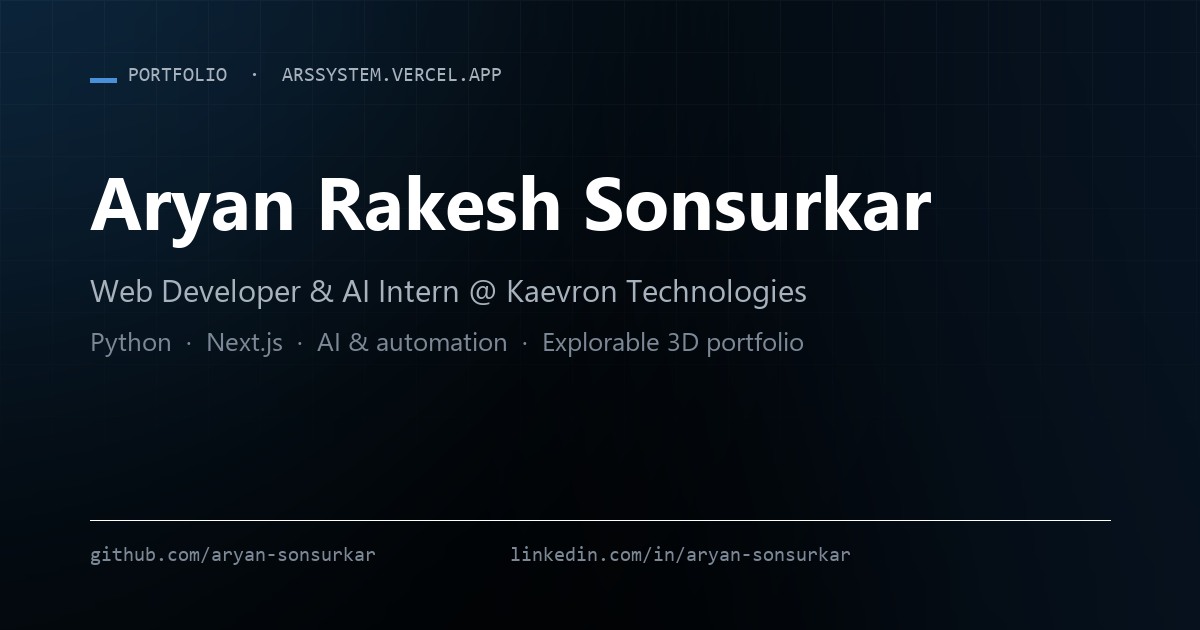
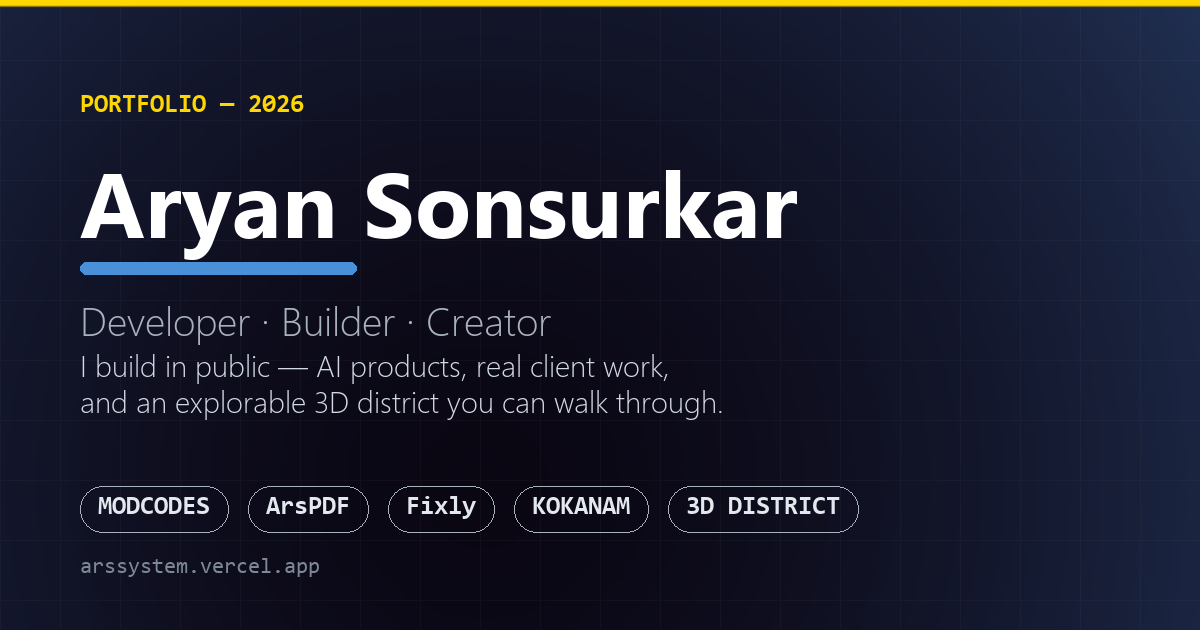
feat: surface ArsPDF + Fixly Desktop everywhere, passport completion celebration, fresh OG image

diff --git a/src/components/UI/PassportHUD.tsx b/src/components/UI/PassportHUD.tsx
@@ -6,6 +6,13 @@ import { BUILDINGS } from "@/components/Buildings/BuildingData";
 import { useStore } from "@/lib/store";
 import { useIsMobile } from "@/lib/useIsMobile";
 
+const CONFETTI = Array.from({ length: 16 }, (_, i) => ({
+  left: (i * 6.25 + ((i * i) % 11)) % 96,
+  delay: (i % 8) * 0.35,
+  size: 3 + (i % 3),
+  gold: i % 3 !== 0,
+}));
+
 export default function PassportHUD({
   open,
   onClose,
@@ -72,12 +79,39 @@ export default function PassportHUD({
             }`}
             style={{
               padding: 24,
-              borderColor: "rgba(255,215,0,0.25)",
-              boxShadow:
-                "0 0 48px rgba(255,215,0,0.08), 0 24px 64px rgba(0,0,0,0.5)",
+              borderColor: complete ? "rgba(255,215,0,0.45)" : "rgba(255,215,0,0.25)",
+              boxShadow: complete
+                ? "0 0 64px rgba(255,215,0,0.22), 0 24px 64px rgba(0,0,0,0.5)"
+                : "0 0 48px rgba(255,215,0,0.08), 0 24px 64px rgba(0,0,0,0.5)",
             }}
             onClick={(e) => e.stopPropagation()}
           >
+            {complete && (
+              <div className="absolute inset-0 overflow-hidden pointer-events-none rounded-[10px]">
+                {CONFETTI.map((c, i) => (
+                  <motion.span
+                    key={i}
+                    className="absolute rounded-full"
+                    style={{
+                      left: `${c.left}%`,
+                      bottom: -4,
+                      width: c.size,
+                      height: c.size,
+                      background: c.gold ? "#ffd700" : "#fff3b0",
+                      boxShadow: "0 0 6px rgba(255,215,0,0.8)",
+                    }}
+                    animate={{ y: [0, -360], opacity: [1, 1, 0] }}
+                    transition={{
+                      duration: 2.8,
+                      delay: c.delay,
+                      repeat: Infinity,
+                      repeatDelay: 1.6,
+                      ease: "easeOut",
+                    }}
+                  />
+                ))}
+              </div>
+            )}
             <p
               className="text-center"
               style={{
@@ -93,7 +127,7 @@ export default function PassportHUD({
               className="text-center mt-1"
               style={{ color: "#ffd700", fontSize: isMobile ? 20 : 24 }}
             >
-              {complete ? "ALL BUILDINGS VISITED" : `${done} of ${total} STAMPS`}
+              {complete ? "🏆 ALL BUILDINGS VISITED" : `${done} of ${total} STAMPS`}
             </h3>
 
             <div

diff --git a/src/components/Buildings/BuildingData.ts b/src/components/Buildings/BuildingData.ts
@@ -41,12 +41,18 @@ export const BUILDINGS: BuildingConfig[] = [
       subtitle: "Real Products, Shipped",
       paragraphs: [
         "Every project in this factory has been shipped, deployed, or delivered.",
-        "Fixly — an AI-powered student workspace with assignments, AI assistance, focus sessions, notes and progress tracking. Live now.",
+        "ArsPDF — a browser-first PDF toolkit with 30 working tools. Every file is processed locally in the tab: no uploads, no accounts, no paywalls. Live now.",
+        "Fixly — an AI-powered student workspace with assignments, AI assistance, focus sessions, notes and progress tracking. Live now. Fixly Desktop — the next generation: a Tauri v2 desktop app with a Python FastAPI backend, Supabase and local-first LLMs, in active development.",
         "KOKANAM — a regional e-commerce marketplace for Konkan-region brands, built during the Kaevron internship. Live now.",
         "Vishwanath Insurance Portfolio — a production website delivered to a real client. CodeShortsBot v2 — an autonomous content pipeline. These are products that exist in the real world.",
       ],
-      tags: ["Fixly", "KOKANAM", "Client Delivery", "Automation"],
+      tags: ["ArsPDF", "Fixly", "KOKANAM", "Client Delivery", "Automation"],
       links: [
+        {
+          label: "View ArsPDF",
+          url: "https://arspdf.vercel.app",
+          icon: "external",
+        },
         {
           label: "View Fixly",
           url: "https://fixly-student-assistant.vercel.app/",

diff --git a/src/components/UI/LandingPage.tsx b/src/components/UI/LandingPage.tsx
@@ -37,9 +37,19 @@ const PROJECTS = [
     featured: false,
   },
   {
+    title: "ArsPDF",
+    description:
+      "Browser-first PDF toolkit with 30 working tools. Every file is processed locally — no uploads, no accounts, no paywalls.",
+    tech: "Next.js 15 · pdf-lib · PDF.js · TypeScript strict · Vitest",
+    status: "Live",
+    link: "https://arspdf.vercel.app",
+    linkLabel: "Live site",
+    featured: true,
+  },
+  {
     title: "Fixly",
     description:
-      "Assignments, AI assistance, focus sessions, notes, progress tracking, PDF analysis and screenshot OCR.",
+      "Assignments, AI assistance, focus sessions, notes, progress tracking, PDF analysis and screenshot OCR. A Tauri v2 desktop successor with a FastAPI + Supabase backend is in active development.",
     tech: "Next.js · React · AI/LLM workflows",
     status: "Live",
     link: "https://fixly-student-assistant.vercel.app/",

diff --git a/src/app/layout.tsx b/src/app/layout.tsx
@@ -22,6 +22,8 @@ export const metadata: Metadata = {
     "Next.js developer",
     "Python developer",
     "open source",
+    "PDF tools",
+    "ArsPDF",
     "Mumbai developer",
   ],
   authors: [{ name: "Aryan Sonsurkar" }],
